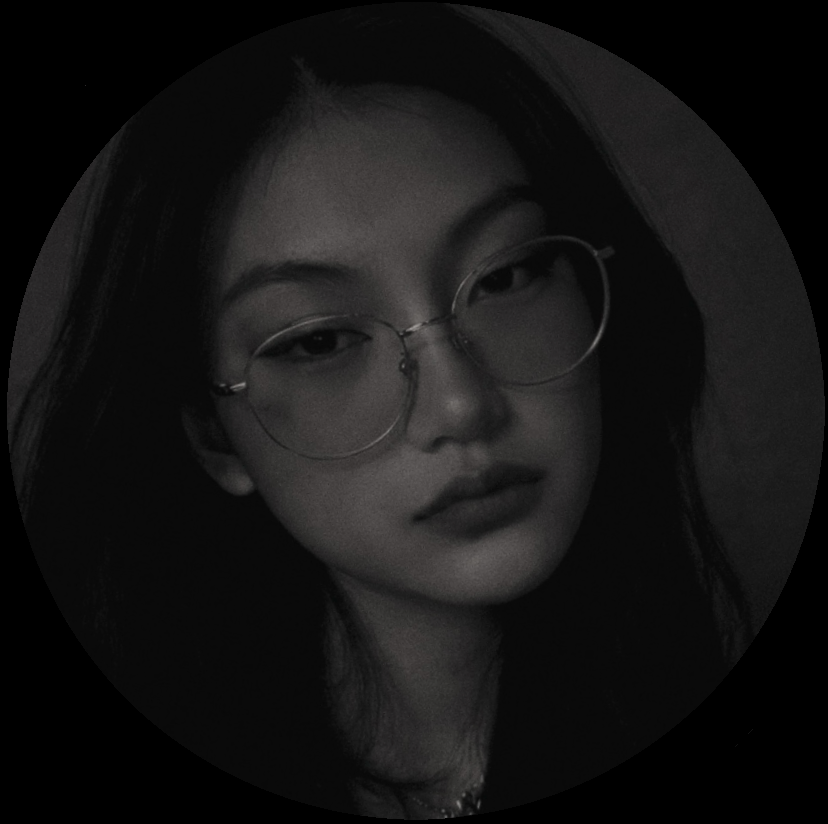
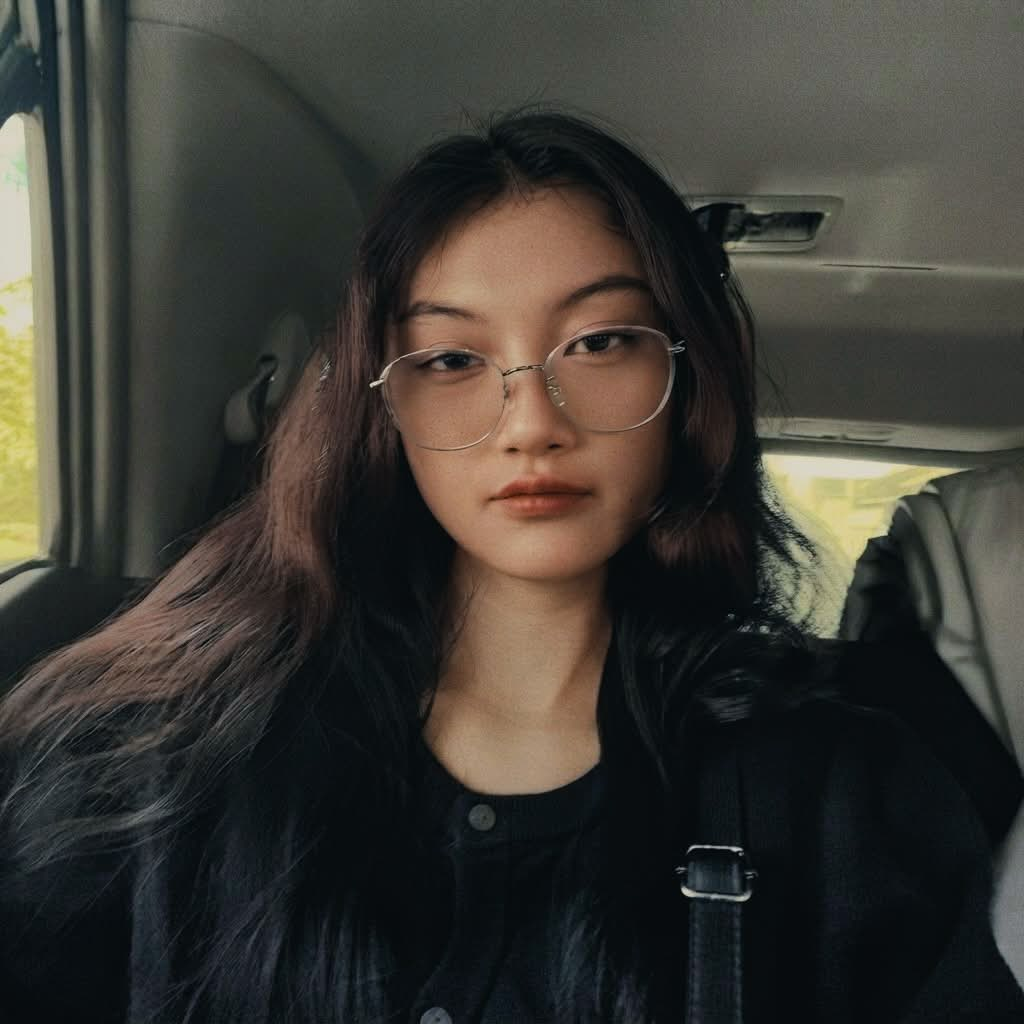
fix: email links

diff --git a/src/components/HomeClient.jsx b/src/components/HomeClient.jsx
@@ -61,13 +61,7 @@ export default function HomeClient() {
 
   const designProjects = [
 
-    {
-      name: "Intranet Site", year: "Nov 2024 - Mar 2025",
-      desc: "Designed and developed a private intranet for NettWork Global Real Estate to streamline internal document access. Curious? Feel free to email me!",
-      tech: ["Freelance Work", "Figma", "Framer", "Framer CMS", "Wordpress", "Vimeo"],
-      links: [],
-      thumb: "/project-img/intranet.png",
-    },
+
     {
       name: "LoVi", year: "2025",
       desc: "Streams Lofi music with pixel interfaces and customizable ambience noise. Built for studying and relaxation.",
@@ -345,26 +339,30 @@ export default function HomeClient() {
             <div className="hero-text">
               <h1 className="hero-name">hi, ziah here.<span className="blink-cursor">|</span></h1>
               <p className="hero-bio">
-                - Data nerd with an SQL obsession.
-                <br />- Based in PH.
-                <br />- IDK what to write here.
-                <br />- I like food.
+                - Data nerd with an SQL obsession
+                <br />- Based in PH
+                <br />- Still updating this site 
               </p>
               <div className="hero-socials">
                 
                 <div className="social-icons">
-                <a href="mailto:ziiah.codes@gmail.com" target="_blank" rel="noreferrer" aria-label="Email"
-                  style={{
-                    display: "flex",
-                    alignItems: "center",
-                    gap: 7,
-                    outline: "1px solid rgba(187, 187, 187, 0.54)",
-                    border: "none",
-                    borderRadius: 4,
-                    padding: "3px 8px",
-                    fontSize: 16,
-                    opacity: 1,
-                  }}>
+                <a
+                href="https://mail.google.com/mail/u/0/?view=cm&fs=1&to=ziiah.codes@gmail.com"
+                onClick={(e) => { e.preventDefault(); window.open(e.currentTarget.href, "_blank", "width=900,height=700"); }}
+                aria-label="Email"
+                style={{
+                  display: "flex",
+                  alignItems: "center",
+                  gap: 7,
+                  outline: "1px solid rgba(187, 187, 187, 0.54)",
+                  border: "none",
+                  borderRadius: 4,
+                  padding: "3px 8px",
+                  fontSize: 16,
+                  opacity: 1,
+                }}
+
+              >
                   <span style={{ fontSize: 13, whiteSpace: "nowrap" }}>say hi  &gt;&gt;</span>
                   <i className="fas fa-envelope"></i>
                 </a>
@@ -490,8 +488,7 @@ export default function HomeClient() {
               LinkedIn
             </a>
             , or{" "}
-            <a href="mailto:ziiah.codes@gmail.com" target="_blank" rel="noreferrer" className="underline link-blue" aria-label="Email">
-              email!
+            <a href="https://mail.google.com/mail/?view=cm&fs=1&to=ziiah.codes@gmail.com" onClick={(e) => { e.preventDefault(); window.open(e.currentTarget.href, "_blank", "width=900,height=700"); }} className="underline link-blue" aria-label="Email">              email!
             </a>{" "}
             <br />
             I'm always open to questions, ideas, or even random tech chats. :)

diff --git a/src/components/MiscClient.jsx b/src/components/MiscClient.jsx
@@ -392,8 +392,7 @@ export default function MiscClient() {
             </a>
 
             {/* Get in touch bar */}
-            <a href="mailto:ziiah.codes@gmail.com" target="_blank" rel="noreferrer" className="git-bar bento-col-3" aria-label="Email">
-              <div className="git-bar-left">
+<a href="https://mail.google.com/mail/u/0/?view=cm&fs=1&to=ziiah.codes@gmail.com" onClick={(e) => { e.preventDefault(); window.open(e.currentTarget.href, "_blank", "width=900,height=700"); }} className="git-bar bento-col-3" aria-label="Email">              <div className="git-bar-left">
                 <div className="git-bar-icon">
                   <svg viewBox="0 0 24 24" width="16" height="16" fill="none" stroke="#fff" strokeWidth="2" strokeLinecap="round" strokeLinejoin="round">
                     <path d="M4 4h16c1.1 0 2 .9 2 2v12c0 1.1-.9 2-2 2H4c-1.1 0-2-.9-2-2V6c0-1.1.9-2 2-2z" />
